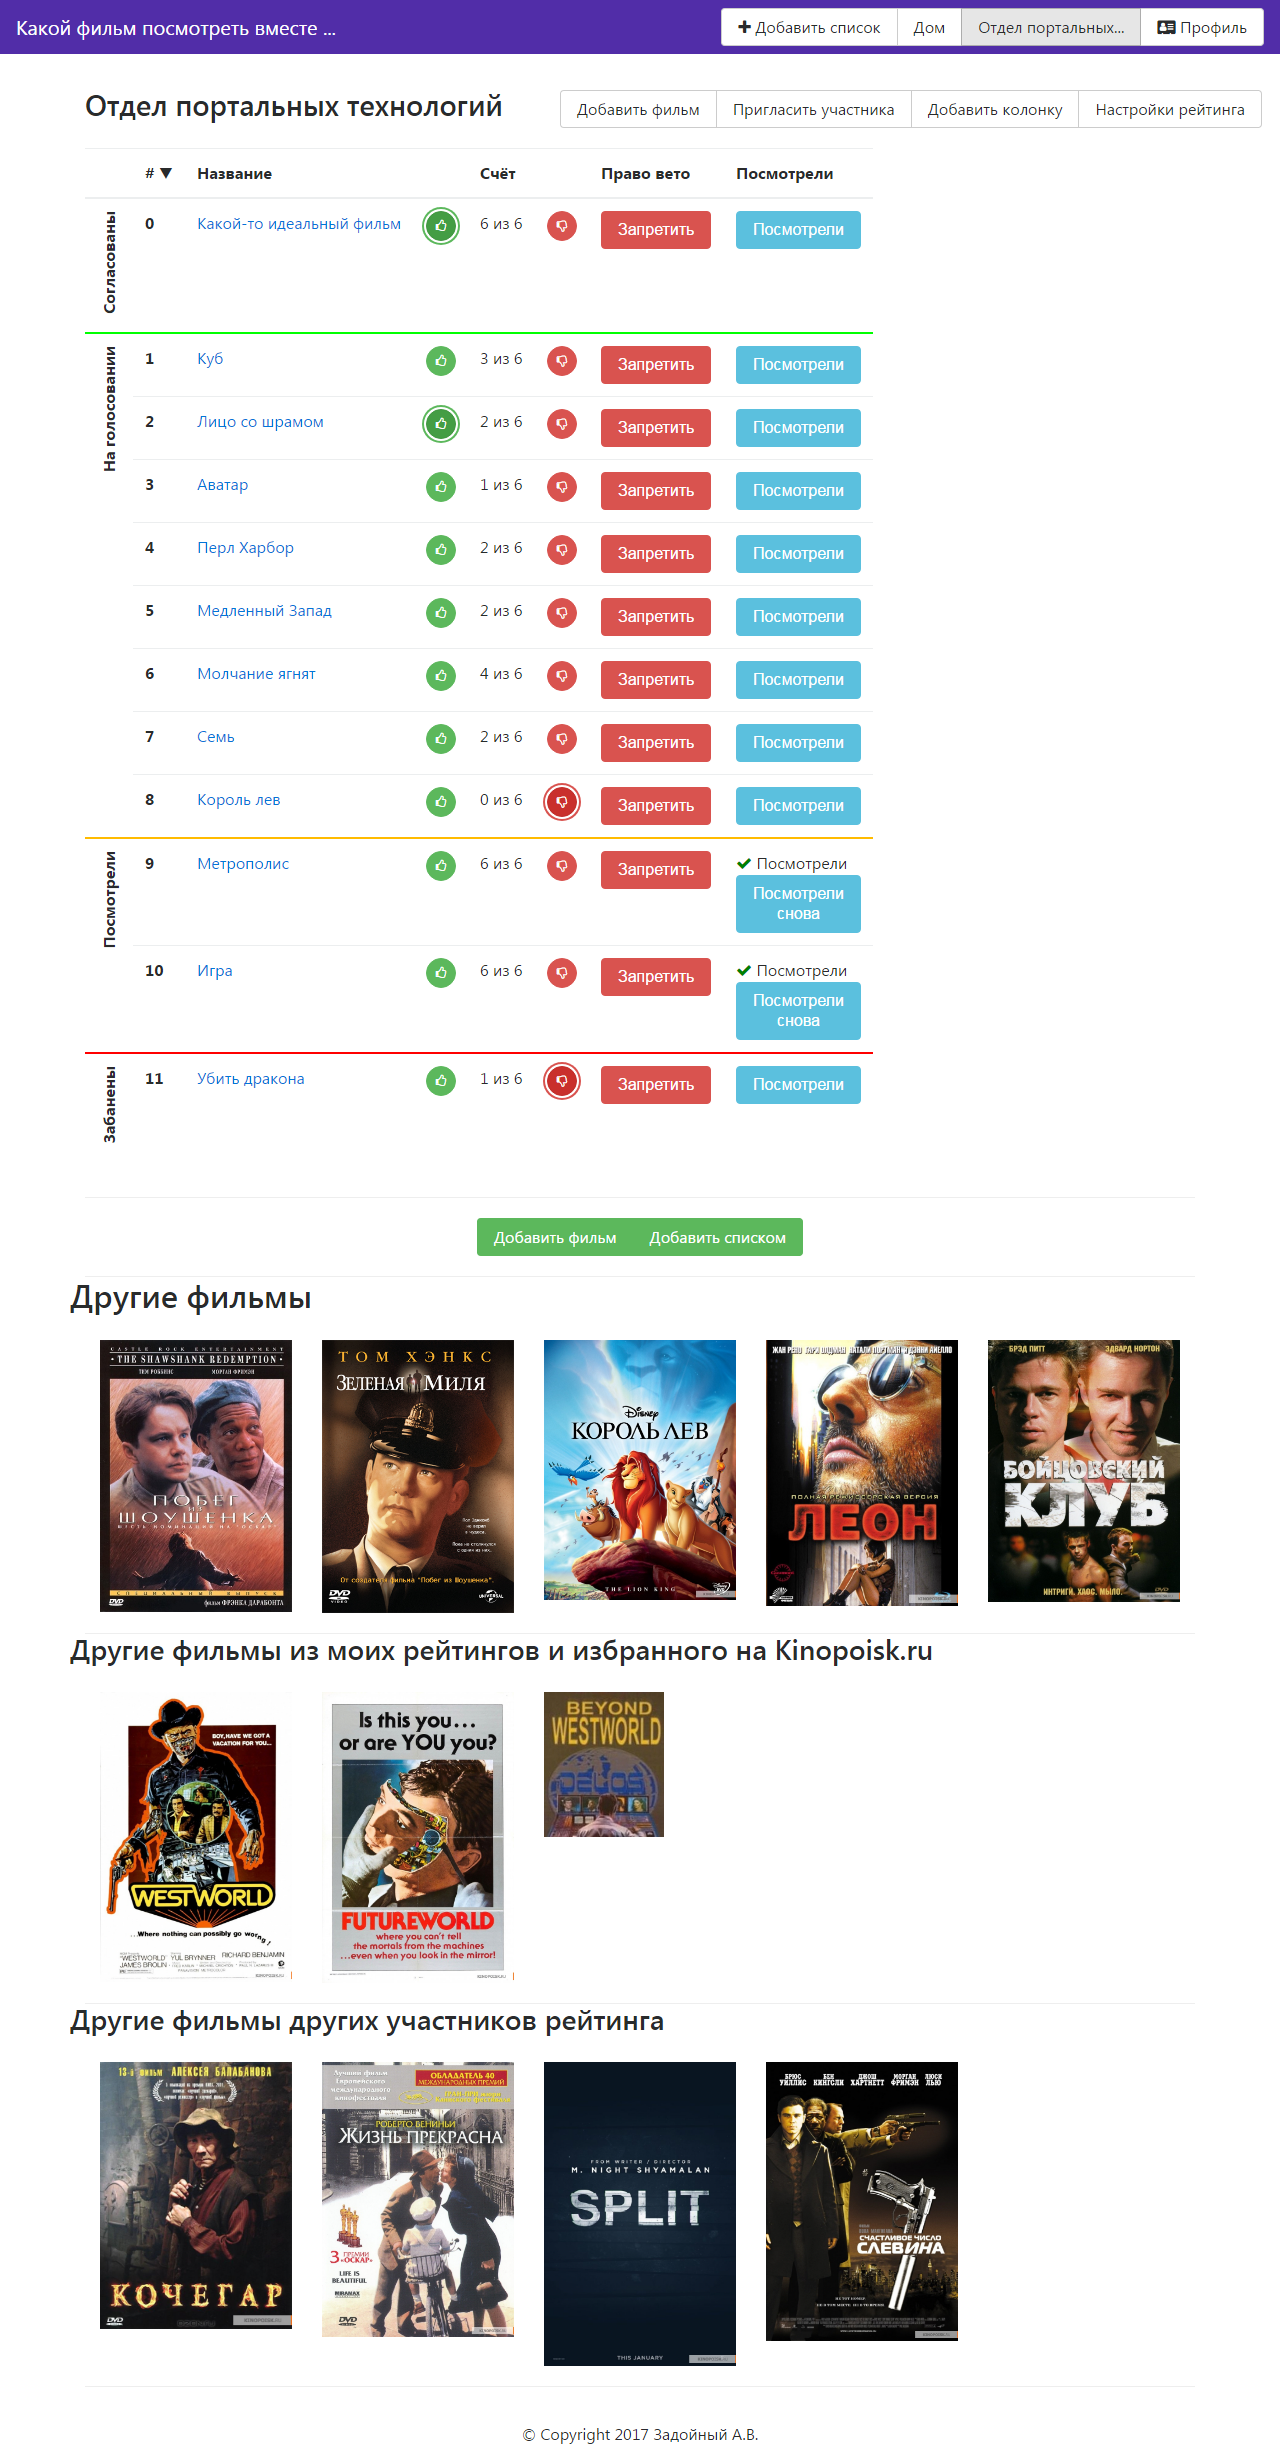
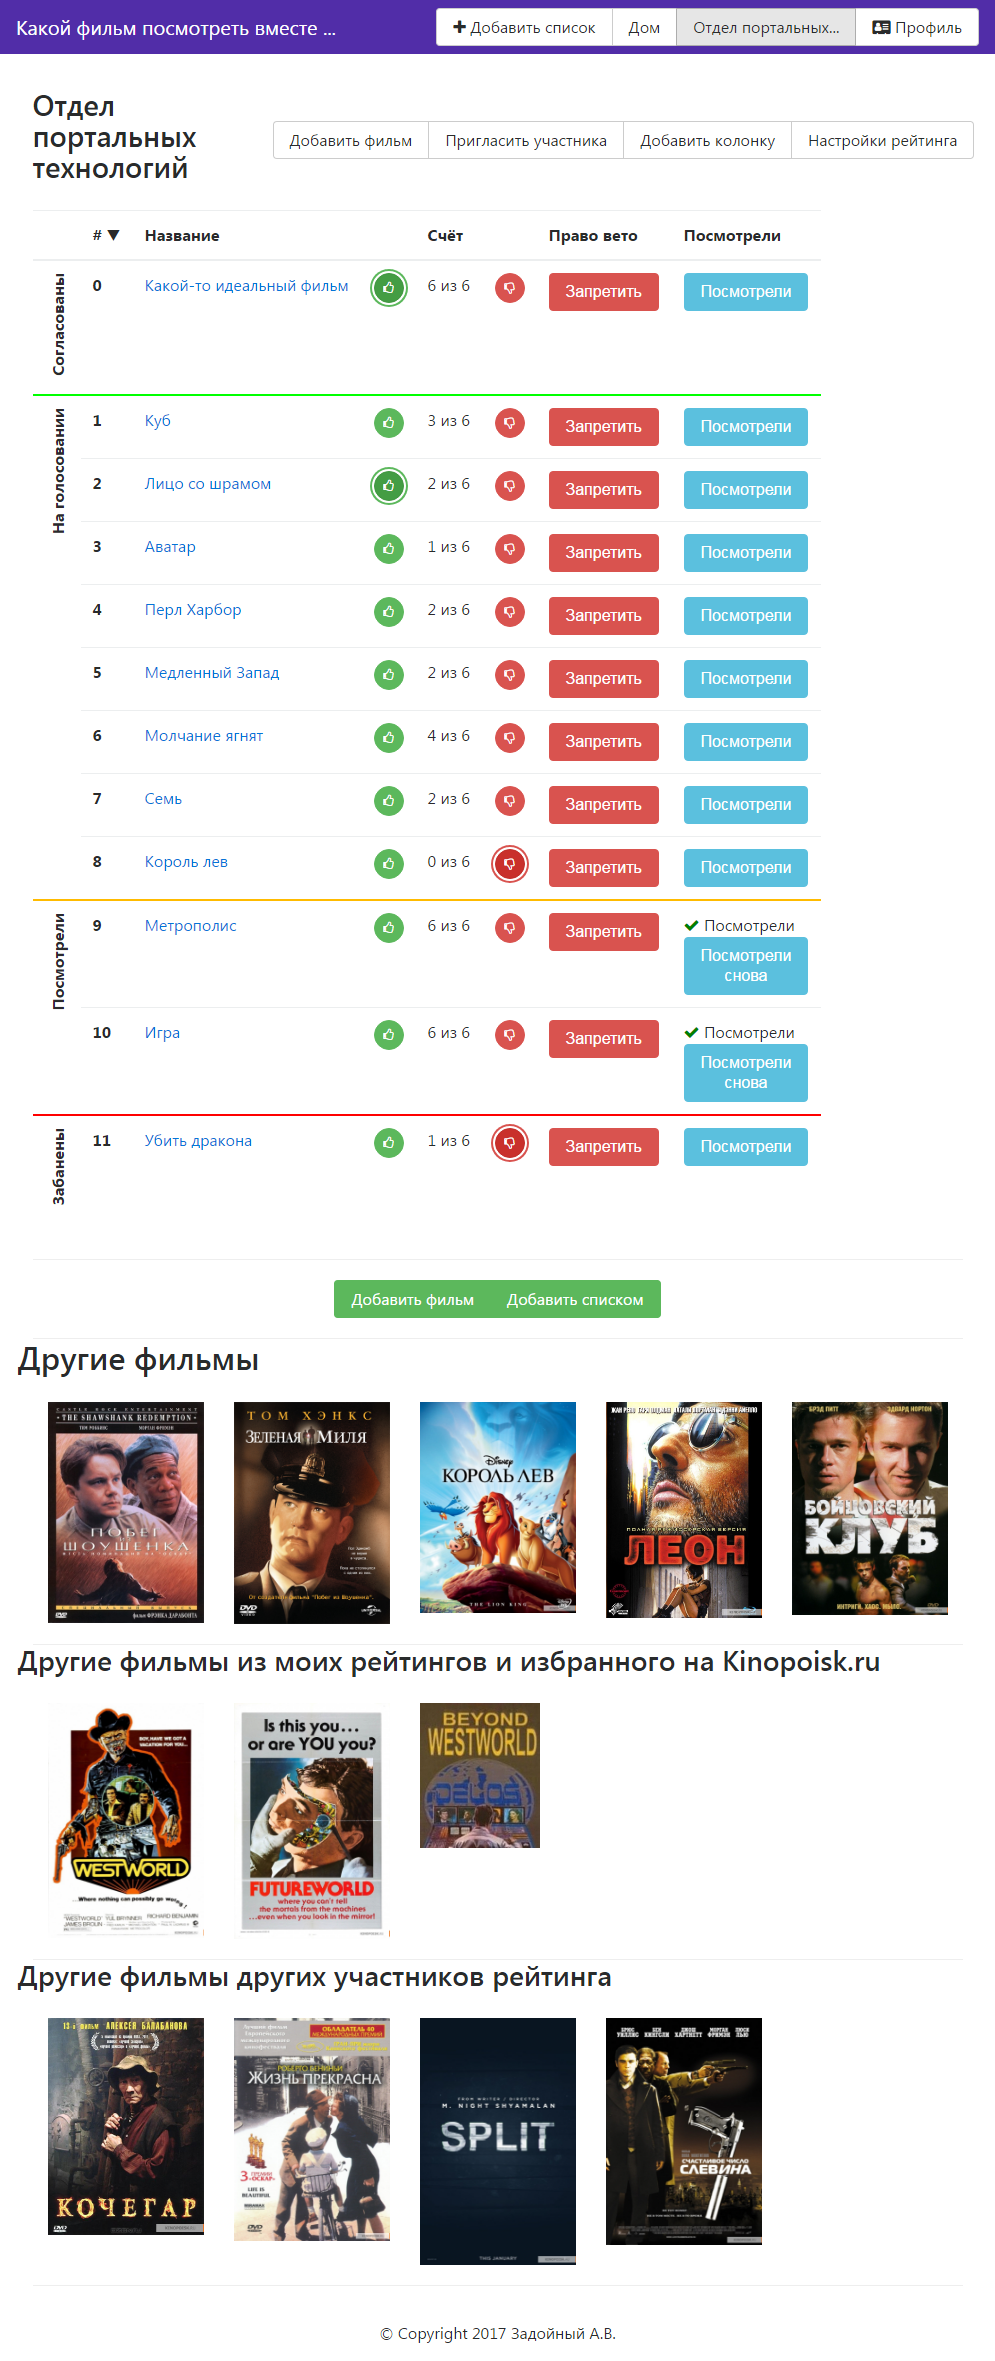
githubpages fix src for imgs

diff --git a/index.html b/index.html
@@ -26,12 +26,12 @@
             <div class="col">
                 <h3>Полный, авторизованный</h3>
                 <p>Адаптивный (мобильная+десктопная)</p>
-                <a href="full-version.html" target="_blank"><img class="img-fluid img-thumbnail" src="/img/1.png" alt="Полный, авторизованный"></a>
+                <a href="full-version.html" target="_blank"><img class="img-fluid img-thumbnail" src="img/1.png" alt="Полный, авторизованный"></a>
             </div>
             <div class="col">
                 <h3>Сокращённый, авторизованный</h3>
                 <p>Адаптивный (мобильная+десктопная)</p>
-                <a href="light-version.html" target="_blank"><img class="img-fluid img-thumbnail" src="/img/2.png" alt="Сокращённый, авторизованный"></a>
+                <a href="light-version.html" target="_blank"><img class="img-fluid img-thumbnail" src="img/2.png" alt="Сокращённый, авторизованный"></a>
             </div>
         </div>
 

diff --git a/full-version.html b/full-version.html
@@ -34,10 +34,10 @@
 
     <div class="container">
         <div class="row">
-            <div class="col-md-5">
+            <div class="col-md-3 col-xl-5">
                 <h1>Отдел портальных технологий</h1>
             </div>
-            <div class="col-md-7 align-self-center">
+            <div class="col-md-9 col-xl-7 align-self-center">
                 <div class="btn-group">
                     <a class="btn btn-secondary" href="#" role="button">Добавить фильм</a>
                     <a class="btn btn-secondary hidden-xs-down" href="#" role="button">Пригласить участника</a>

diff --git a/light-version.html b/light-version.html
@@ -34,10 +34,10 @@
 
     <div class="container">
         <div class="row">
-            <div class="col-md-5">
+            <div class="col-md-3 col-xl-5">
                 <h1>Отдел портальных технологий</h1>
             </div>
-            <div class="col-md-7 align-self-center">
+            <div class="col-md-9 col-xl-7 align-self-center">
                 <div class="btn-group">
                     <a class="btn btn-secondary" href="#" role="button">Добавить фильм</a>
                     <a class="btn btn-secondary hidden-xs-down" href="#" role="button">Пригласить участника</a>
